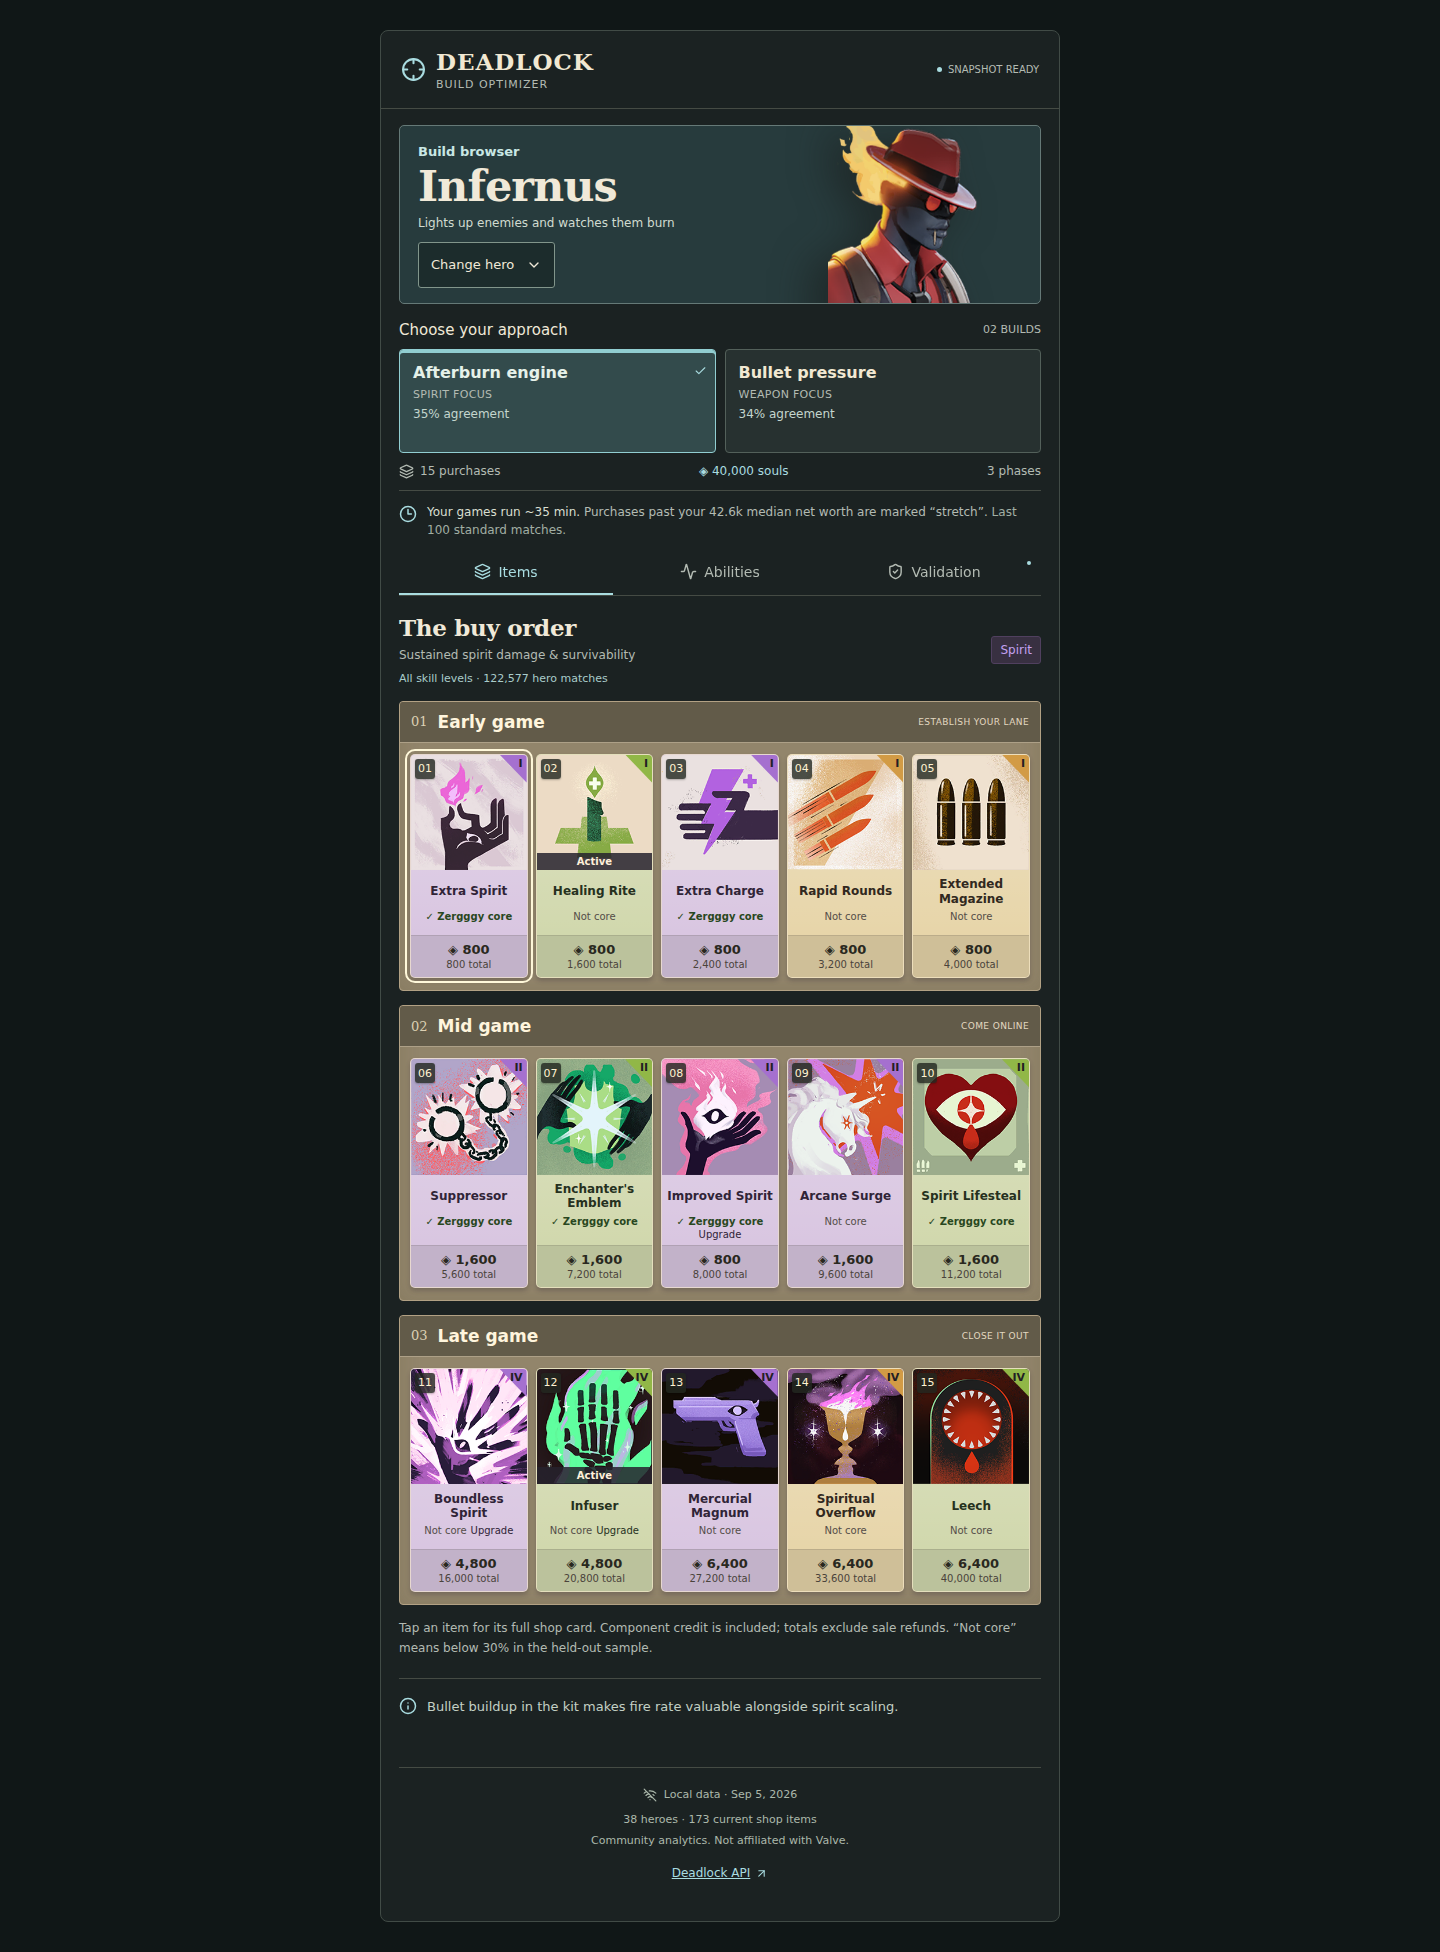
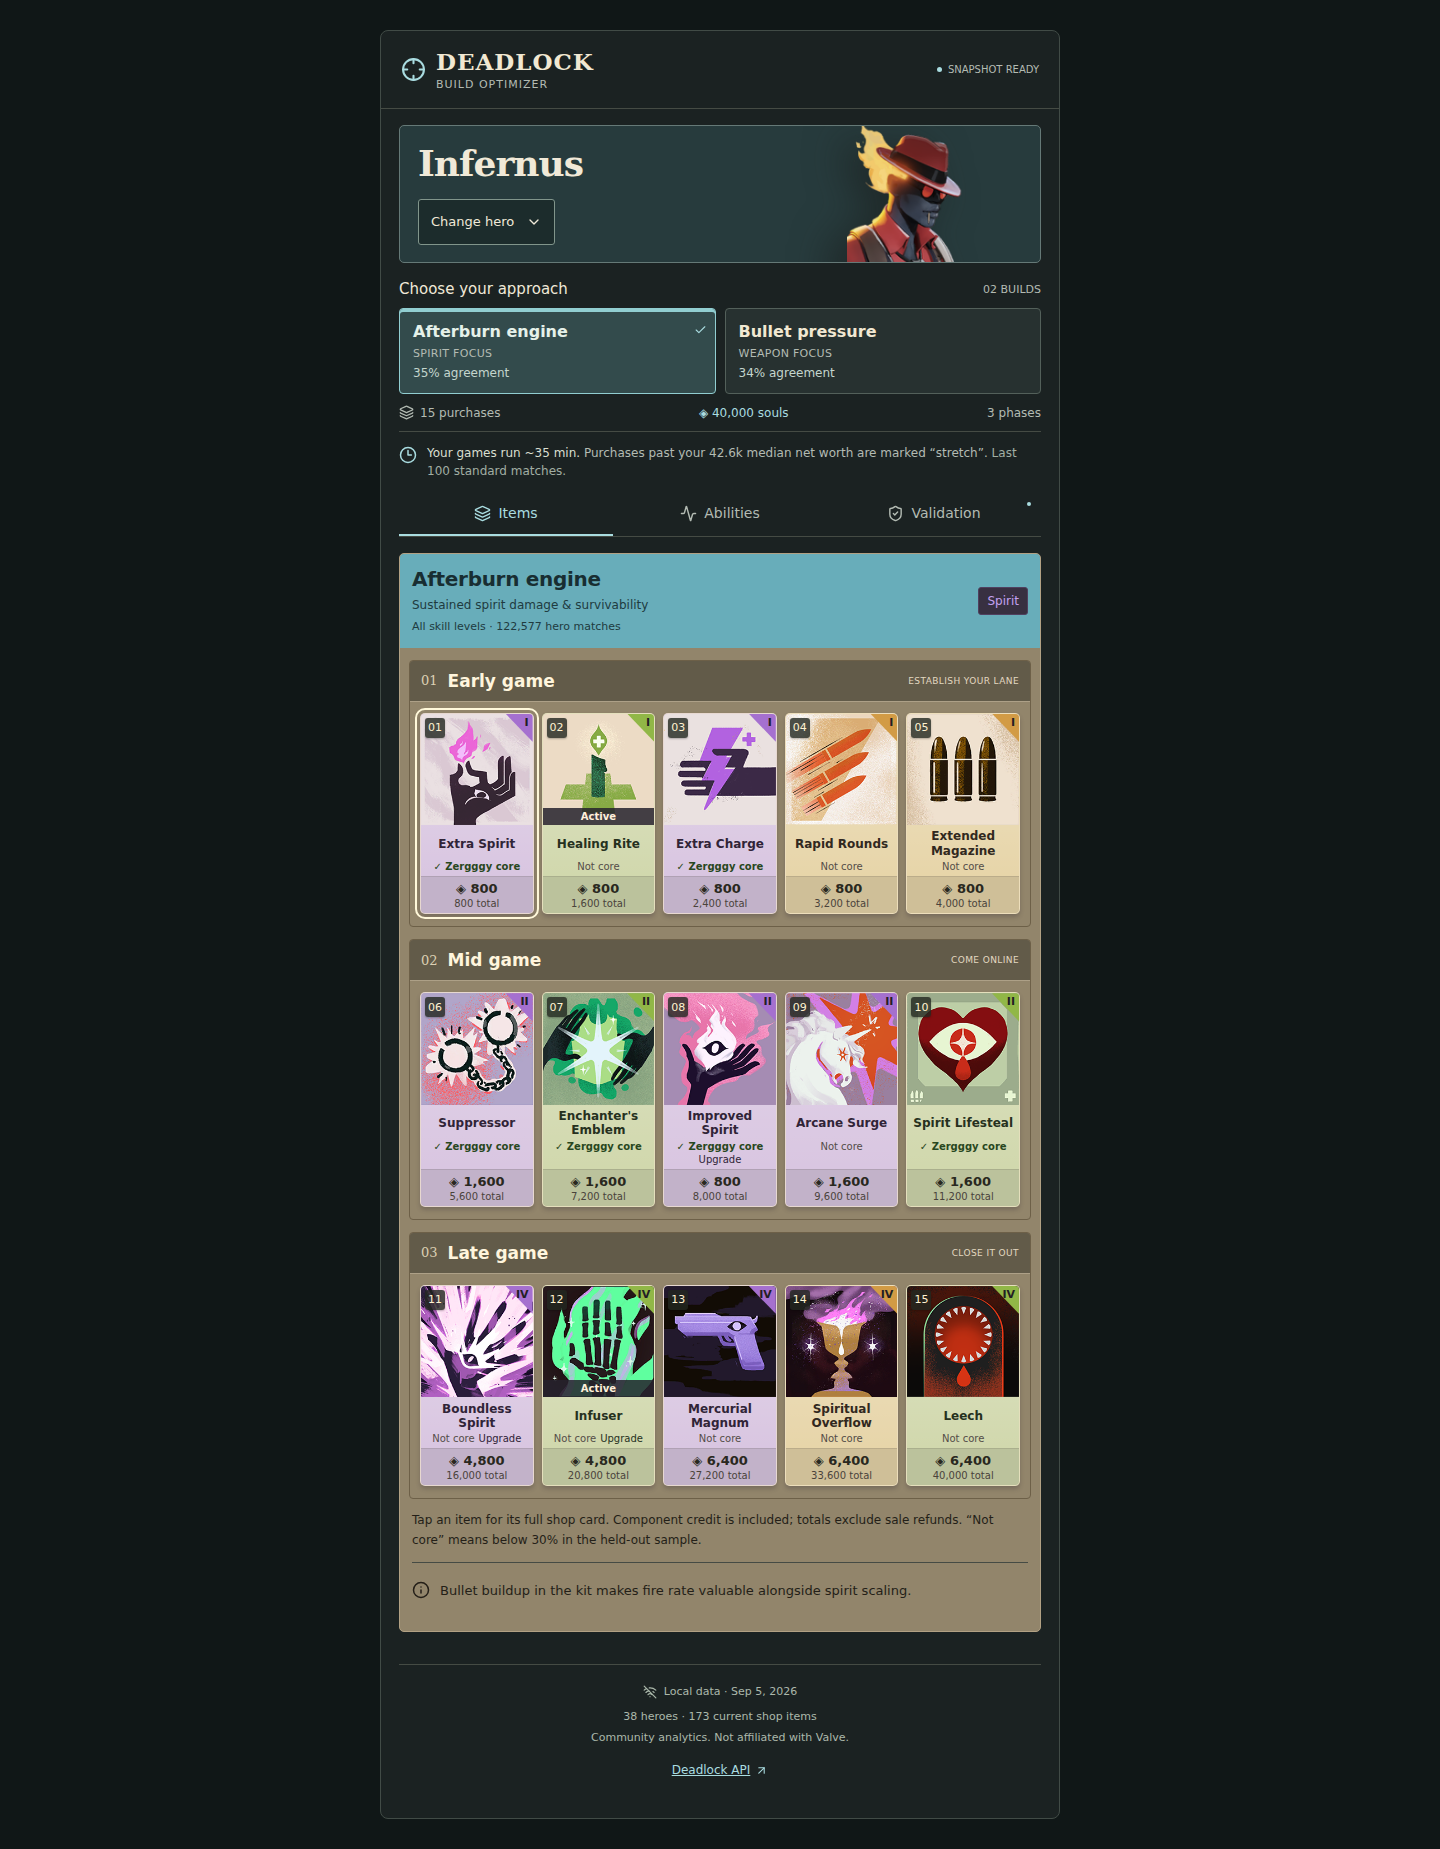
Tighten reference shop styling and ability point markers

Changed region(s): [[0.25, 0.0, 0.75, 0.9865]]

diff --git a/src/shop.css b/src/shop.css
@@ -31,7 +31,7 @@ main {
   padding: 16px 18px 0;
 }
 .hero-panel {
-  min-height: 166px;
+  min-height: 138px;
   background: #273b3d;
   border: 1px solid #657977;
   border-radius: 5px;
@@ -44,9 +44,10 @@ main {
   font-weight: 600;
   letter-spacing: 0;
   color: #c9e8e5;
+  display: none;
 }
 h1 {
-  font-size: 43px;
+  font-size: 36px;
   font-style: normal;
   margin: 4px 0 6px;
   letter-spacing: -1px;
@@ -54,6 +55,7 @@ h1 {
 .hero-copy p {
   font-size: 12px;
   color: #d1dbd0;
+  display: none;
 }
 .hero-art {
   right: -12px;
@@ -82,7 +84,7 @@ h1 {
   gap: 9px;
 }
 .build-option {
-  min-height: 104px;
+  min-height: 80px;
   padding: 13px;
   gap: 6px;
   background: #273130;
@@ -154,7 +156,7 @@ h1 {
 }
 .view-intro .cohort-caption {
   color: #a9ccca;
-  margin-top: 5px;
+  margin-top: 3px;
   font-size: 11px;
 }
 .focus-badge {
@@ -301,12 +303,12 @@ h1 {
   line-height: 17px;
 }
 .shop-card .item-main {
-  padding: 7px 4px 5px;
+  padding: 4px;
   display: flex;
   flex-direction: column;
   align-items: center;
   text-align: center;
-  min-height: 65px;
+  min-height: 50px;
   background: linear-gradient(#ffffff1a, #fff0);
 }
 .shop-card .item-main > strong {
@@ -324,7 +326,7 @@ h1 {
   display: flex;
   justify-content: center;
   gap: 2px 4px;
-  margin-top: 5px;
+  margin-top: 3px;
   color: var(--card-ink);
   font-size: 10px;
 }
@@ -346,7 +348,7 @@ h1 {
 }
 .shop-card .item-cost {
   text-align: center;
-  padding: 6px 3px 7px;
+  padding: 4px 3px;
   border-top: 1px solid #4c403d26;
   background: #252b2520;
 }
@@ -456,6 +458,25 @@ h1 {
   font-size: 11px;
   font-style: normal;
 }
+.point-marker .point-diamond {
+  width: 9px;
+  height: 9px;
+  border: 2px solid currentColor;
+  transform: rotate(45deg);
+  font-size: 0;
+  margin: 0 3px;
+}
+.point-unlock .point-diamond {
+  background: currentColor;
+}
+.point-unlock .point-diamond::after {
+  content: "";
+  display: block;
+  width: 2px;
+  height: 5px;
+  background: #243047;
+  transform: rotate(-25deg) translate(1px, 0);
+}
 .point-unlock {
   color: #d892ff;
 }
@@ -494,7 +515,52 @@ h1 {
   min-width: 0;
 }
 .ability-key img {
-  filter: grayscale(1);
+  filter: brightness(0);
+  background: transparent;
+  border: 0;
+  margin: 0;
+}
+.ability-icon-tile {
+  width: 52px;
+  height: 52px;
+  background: #f0e4c9;
+  border-radius: 3px;
+  margin: 0 auto 10px;
+}
+.shop-view {
+  background: #92856b;
+  border: 1px solid #b2a184;
+  border-radius: 5px;
+  overflow: hidden;
+  margin-top: 16px;
+}
+.shop-view .view-intro {
+  margin: 0 0 12px;
+  padding: 13px 12px;
+  background: #68adba;
+  color: #182e32;
+}
+.shop-view .view-intro h2 {
+  font-family: inherit;
+  font-size: 20px;
+  font-weight: 700;
+}
+.shop-view .view-intro p,
+.shop-view .view-intro .cohort-caption {
+  color: #203b40;
+}
+.shop-view .phase {
+  margin: 0 9px 12px;
+  border-color: #6d6048;
+  box-shadow: none;
+}
+.shop-view > .fine-print,
+.shop-view > .kit-note {
+  margin: 12px;
+  color: #241f18;
+}
+.shop-view > .kit-note p {
+  color: #241f18;
 }
 .ability-key strong {
   color: #e7e0d1;
@@ -588,16 +654,16 @@ footer {
     bottom: -21px;
   }
   h1 {
-    font-size: 38px;
+    font-size: 34px;
   }
   .hero-copy p {
     max-width: 195px;
   }
   .hero-panel {
-    min-height: 166px;
+    min-height: 138px;
   }
   .build-option {
-    min-height: 96px;
+    min-height: 80px;
     padding: 12px 10px;
   }
   .build-option strong {

diff --git a/src/main.tsx b/src/main.tsx
@@ -297,10 +297,10 @@ function App({ data }: { data: Data }) {
           ))}
         </nav>
         {tab === "Items" && (
-          <section aria-label="Item build" className="view">
+          <section aria-label="Item build" className="view shop-view">
             <div className="view-intro">
               <div>
-                <h2>The buy order</h2>
+                <h2>{build.name}</h2>
                 <p>{build.subtitle}</p>
                 <p className="cohort-caption">
                   {build.cohort} · {souls(build.cohortMatches)} hero matches
@@ -431,7 +431,9 @@ function App({ data }: { data: Data }) {
                 )!;
                 return (
                   <div key={slot}>
-                    <img src={photo(`ability-${a.id}`)} alt="" />
+                    <div className="ability-icon-tile">
+                      <img src={photo(`ability-${a.id}`)} alt="" />
+                    </div>
                     <span>{slot}</span>
                     <strong>{a.name}</strong>
                   </div>

diff --git a/verification/design-refinement.md b/verification/design-refinement.md
@@ -1,0 +1,7 @@
+# Reference refinement
+
+Palette: charcoal #1b2222, shop parchment #92856b, cream #f0e4c9, cyan #68adba, ability blue #243b5b, unlock lilac #d892ff. Georgia supplies the hero identity; Trebuchet supplies compact game-menu labels.
+
+Layout: left-aligned compact hero and build controls, then a cyan build-title strip attached to the parchment purchase panels. Preserve three phase groups, costs, core checks and actual asset art. Ability tracks use black silhouettes on cream and outlined diamond point markers; mobile divides the sixteen columns into two consecutive eight-column tracks.
+
+Review: the previous header consumed most of the phone viewport and the card metadata lengthened the reference's portrait cards. Reduce that chrome and tighten card spacing instead of adding decorative effects. Keep the original purchase order and generation unchanged. Verify rendered phone and desktop screenshots, all hero views and deployed mobile behavior.
